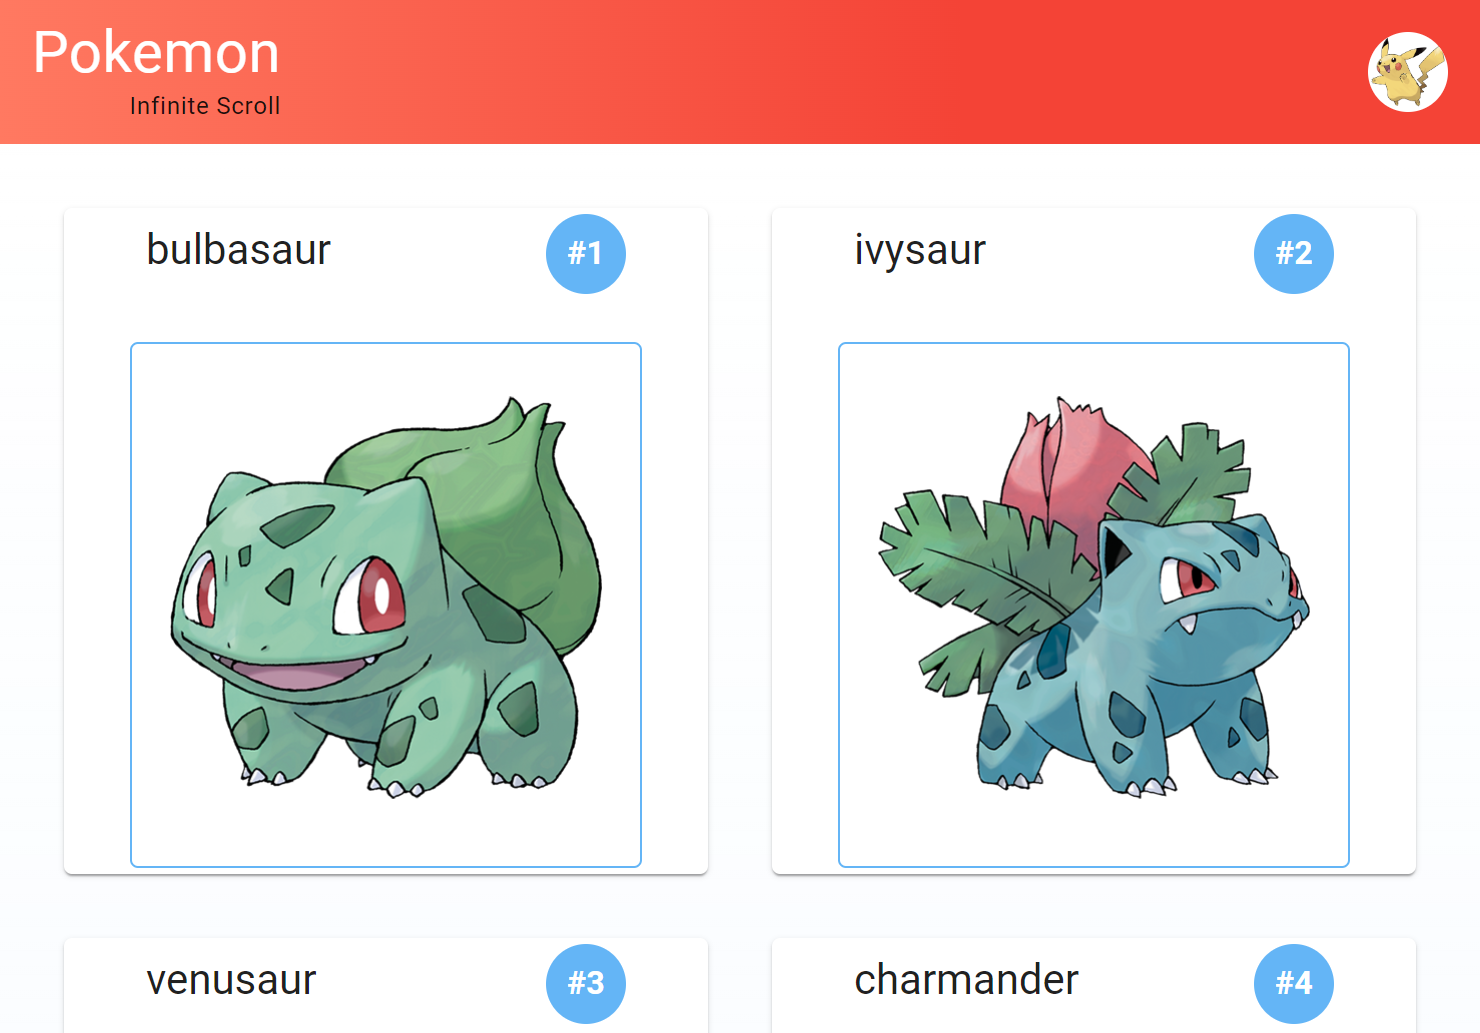
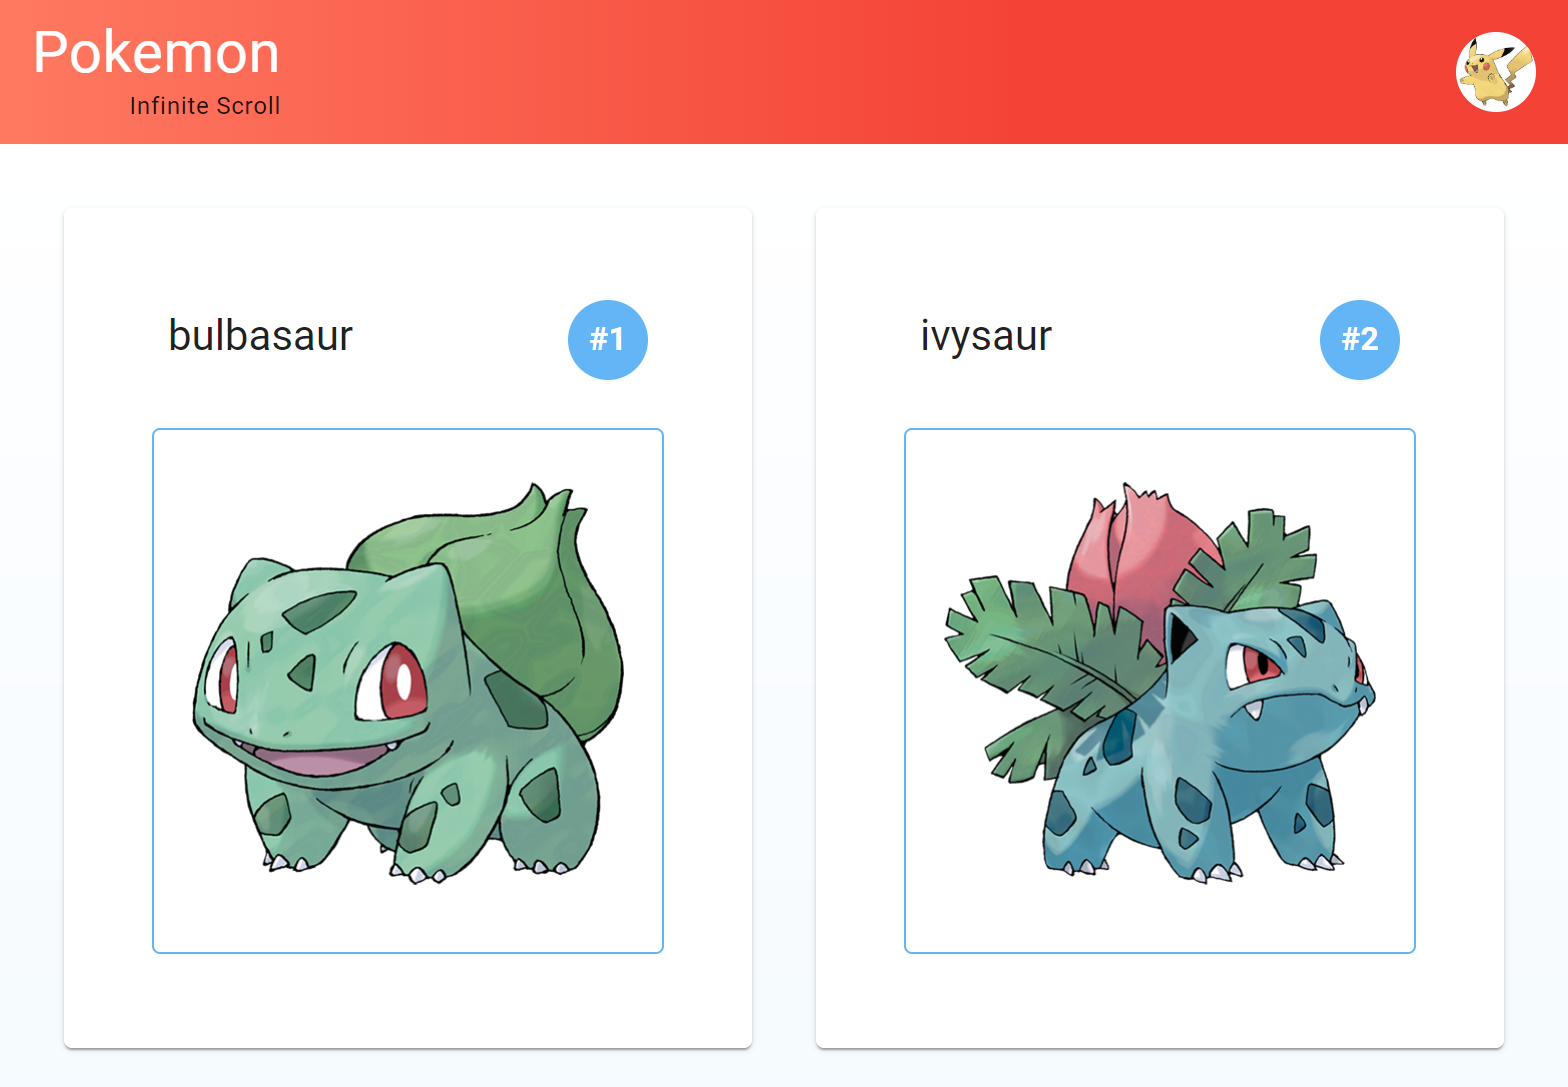
Updated screenshot and fixed mobile UI

diff --git a/src/components/PokemonList.jsx b/src/components/PokemonList.jsx
@@ -102,7 +102,7 @@ const Grid = styled(Box)(({ theme }) => ({
 const PokemonCard = styled(Card)(({ theme }) => ({
   flex: '0 0 auto',
   width: '100%',
-  height: 'min(30svh, 420px)',
+  height: 'min(40svh, 420px)',
   display: 'flex',
   flexDirection: 'column',
   justifyContent: 'center',
